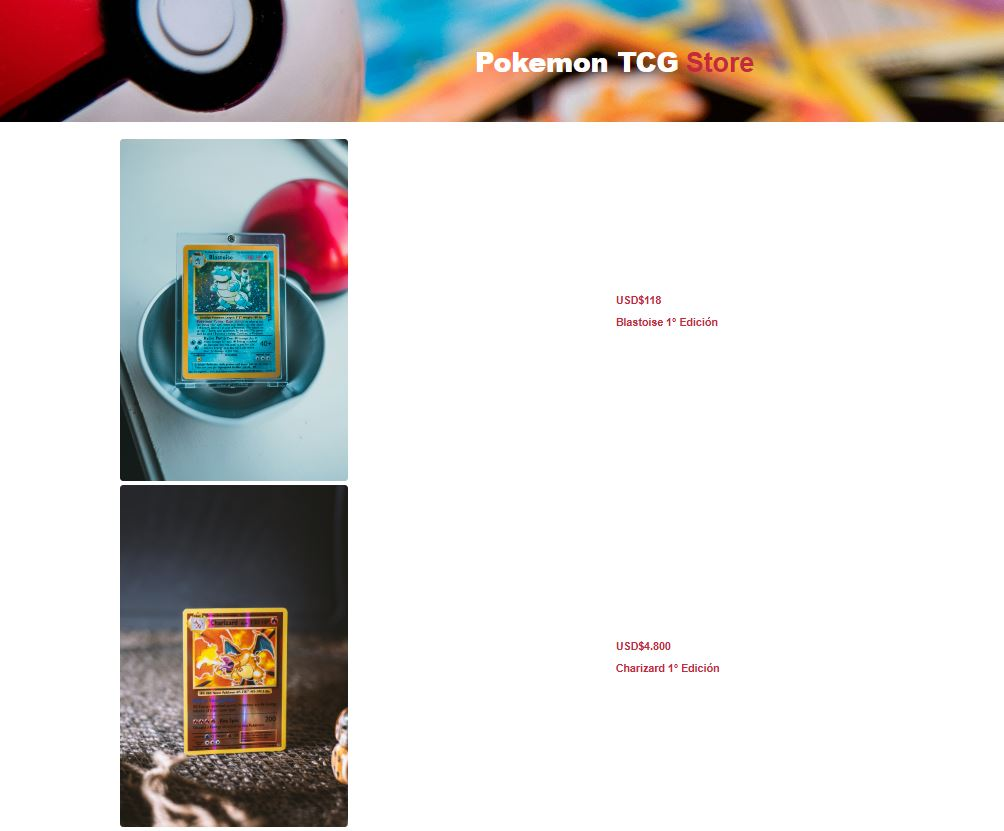
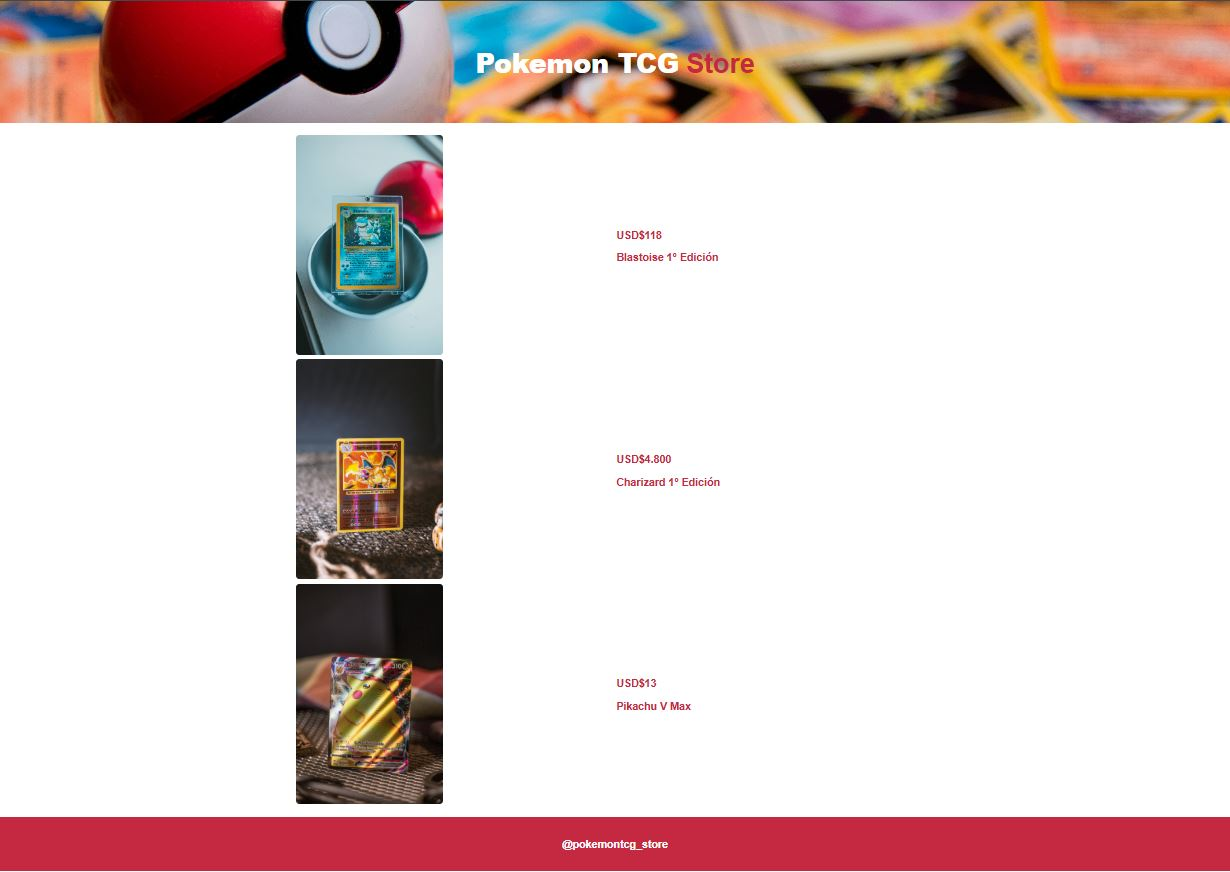
arreglo de vistas en mayores resoluciones y edición de textos

diff --git a/index.html b/index.html
@@ -91,53 +91,57 @@
     </section>
 
 
-    <section id="Mis-trabajos" class="my-5 p-5 bg-info container">
+    <section id="Mis-trabajos" class="my-5 p-5 bg-info">
+        <div class="container">
+            <h2 class="display-4 fw-bold text-center text-light mb-3">Mis proyectos</h2>
 
-        <h2 class="display-4 fw-bold text-center text-light mb-3">Mis proyectos</h2>
-
-        <div class="row">
-            <div class="col-12 col-sm-4 py-2">
-                <div class="card w-100 h-100 border-0">
-                        <img src="./assets/img/proyecto-1.jpg" alt="Pokemon TCGStore">
-                    <div class="card-body d-flex flex-column">
-                        <h5 class="card-title fw-bold">Pokemon TCGStore</h5>
-                        <p class="card-text">
-                            Pagina sobre venta de cartas Pokemon.
-                            Ejercicio básico de implementación de CSS (ajustes de tamaño y color de texto, imágentes, etc.)
-                        </p>
-                        <button type="button" class="btn btn-outline-info mt-auto align-self-start">
-                            Ver más
-                        </button>
+            <div class="row">
+                <div class="col-12 col-sm-4 py-2">
+                    <div class="card w-100 h-100 border-0">
+                            <img src="./assets/img/proyecto-1.jpg" alt="Pokemon TCGStore">
+                        <div class="card-body d-flex flex-column">
+                            <h5 class="card-title fw-bold">Pokemon TCGStore</h5>
+                            <p class="card-text">
+                                Pagina sobre venta de cartas Pokemon.
+                                <br>
+                                Ejercicio básico de implementación de CSS (ajustes de tamaño y color de texto, imágentes, etc.)
+                            </p>
+                            <button type="button" class="btn btn-outline-info mt-auto align-self-start">
+                                Ver más
+                            </button>
+                        </div>
                     </div>
                 </div>
-            </div>
-            <div class="col-12 col-sm-4 py-2">
-                <div class="card w-100 h-100 border-0">
-                        <img src="./assets/img/proyecto-2.jpg" alt="Iguana Page">
-                    <div class="card-body d-flex flex-column">
-                        <h5 class="card-title fw-bold">Iguana Page</h5>
-                        <p class="card-text">
-                            Pagina de información sobre la Iguana.
-                            Ejercicio basico de diseño web con implementación de Flexbox(posicion de secciones e imagenes), Font-awesome y Google-fonts.
-                        </p>
-                        <button type="button" class="btn btn-outline-info mt-auto align-self-start">
-                            Ver más
-                        </button>
+                <div class="col-12 col-sm-4 py-2">
+                    <div class="card w-100 h-100 border-0">
+                            <img src="./assets/img/proyecto-2.jpg" alt="Iguana Page">
+                        <div class="card-body d-flex flex-column">
+                            <h5 class="card-title fw-bold">Iguana Page</h5>
+                            <p class="card-text">
+                                Pagina de información sobre la Iguana.
+                                <br>
+                                Ejercicio basico de diseño web con implementación de Flexbox(posicion de secciones e imagenes), Font-awesome y Google-fonts.
+                            </p>
+                            <button type="button" class="btn btn-outline-info mt-auto align-self-start">
+                                Ver más
+                            </button>
+                        </div>
                     </div>
                 </div>
-            </div>
-            <div class="col-12 col-sm-4 py-2">
-                <div class="card w-100 h-100 border-0">
-                        <img src="./assets/img/proyecto-3.jpg" alt="Cuppon Page">
-                    <div class="card-body d-flex flex-column">
-                        <h5 class="card-title fw-bold">Cuppon</h5>
-                        <p class="card-text">
-                            E-commerce sobre venta de cupones de descuento.
-                            Ejercicio básico de diseño web con implementación de Bootstrap.
-                        </p>
-                        <button type="button" class="btn btn-outline-info mt-auto align-self-start">
-                            Ver más
-                        </button>
+                <div class="col-12 col-sm-4 py-2">
+                    <div class="card w-100 h-100 border-0">
+                            <img src="./assets/img/proyecto-3.jpg" alt="Cuppon Page">
+                        <div class="card-body d-flex flex-column">
+                            <h5 class="card-title fw-bold">Cuppon</h5>
+                            <p class="card-text">
+                                E-commerce sobre venta de cupones de descuento.
+                                <br>
+                                Ejercicio básico de diseño web con implementación de Bootstrap y hacer la página responsiva.
+                            </p>
+                            <button type="button" class="btn btn-outline-info mt-auto align-self-start">
+                                Ver más
+                            </button>
+                        </div>
                     </div>
                 </div>
             </div>
@@ -150,12 +154,6 @@
     <section id="Contacto" class="container my-5">
 
         <h2 class="display-4 fw-bold text-center my-4">Contáctame</h2>
-
-        <p class="text-center my-4 d-none d-md-block">Lorem ipsum dolor, sit amet consectetur adipisicing elit.
-            Doloribus
-            sapiente, autem delectus totam expedita
-            animi corporis dolorem qui magnam, aspernatur officiis quasi culpa tempora est commodi. Voluptate beatae
-            tempora quaerat?</p>
 
         <form>
 
@@ -189,7 +187,7 @@
 
 
     <footer class="bg-dark text-center text-light p-4">
-        <p class="mb-0">Olivia Ros 2019. Todos los derechos reservados.</p>
+        <p class="mb-0">Iván Zapata. Todos los derechos reservados.</p>
     </footer>
 
 

diff --git a/assets/css/estilos.css b/assets/css/estilos.css
@@ -14,7 +14,10 @@ body {
 /* Mis trabajos */
 
 #Mis-trabajos img {
-  height: 15rem;
+  height: 10rem;
+  width: 100%;
+  object-fit: cover;
+  object-position: top;
   border-radius: 4px;
 }
 
